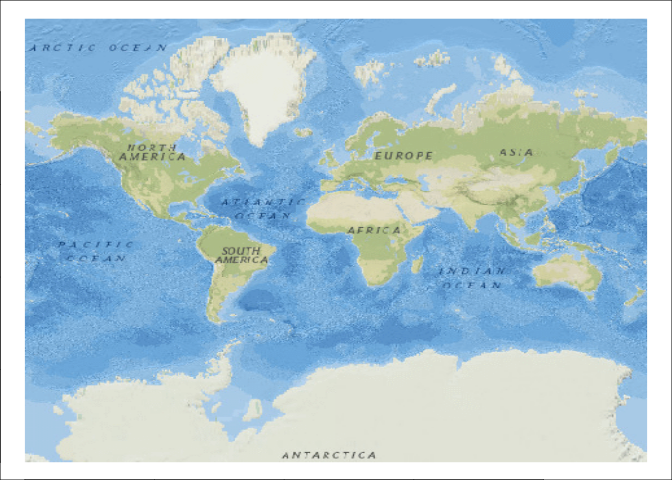
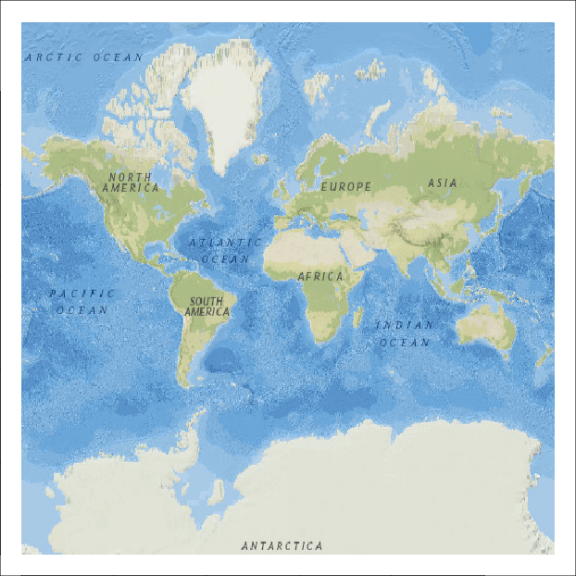
figure tweaks

Changed region(s): [[0.3438, 0.5, 0.375, 0.5625]]

diff --git a/src/gdal.cpp b/src/gdal.cpp
@@ -37,7 +37,7 @@ SEXP xrgdal_Warp(SEXP xp, NumericVector extent, IntegerVector dimension, Charact
   papszArg = CSLAddString(papszArg, "MEM");
   papszArg = CSLAddString(papszArg, "-r");
 
-  papszArg = CSLAddString(papszArg, "near");
+  papszArg = CSLAddString(papszArg, "bilinear");
 
   papszArg = CSLAddString(papszArg, "-te");
   papszArg = CSLAddString(papszArg, CPLSPrintf("%.18g,", extent[0]));

diff --git a/README.md b/README.md
@@ -137,10 +137,10 @@ like and go with that.
 
 ``` r
 par(mar = rep(0, 4), xpd = NA)
-smalldims <- rep(min(dev.size("px")), 2L)
+smalldims <- rep(max(dev.size("px")), 2L)
 a <- array(unlist(xrgdal_RasterIO(po, window = c(0, 0, dms, smalldims), bands = 1:3)), 
            c(smalldims, 3L))/255
-plot(NA, xlim = c(0, smalldims[1]), ylim = c(0, smalldims[2]), xpd = NA)
+plot(NA, xlim = c(0, smalldims[1]), ylim = c(0, smalldims[2]), xpd = NA, asp = 1)
 rasterImage(aperm(a, c(2, 1, 3)), 0, 0, smalldims[1], smalldims[2])
 ```
 
@@ -150,7 +150,7 @@ rasterImage(aperm(a, c(2, 1, 3)), 0, 0, smalldims[1], smalldims[2])
 
 ``` r
 par(mar = rep(0, 4), xpd = NA)
-smalldims <- rep(min(dev.size("px")), 2L)
+smalldims <- rep(max(dev.size("px")), 2L)
 xlim <- c(-120, -70)
 ylim <- c(30, 60)
 warp <- xrgdal_Warp(po, extent = c(xlim, ylim), dimension = smalldims, projection = "OGC:CRS84")
